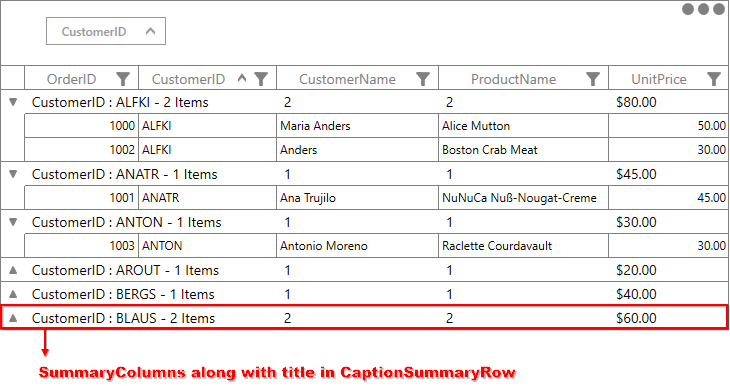
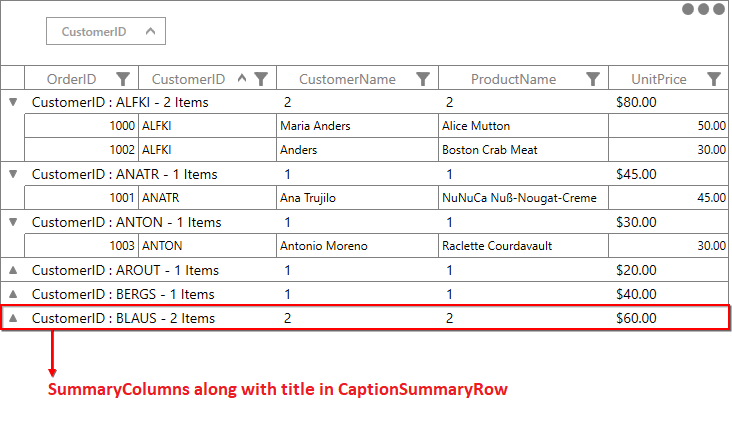
WPF-49853 Content and image changes for summary with title

Changed region(s): [[0.0, 0.0, 1.0, 0.9948], [0.0603, 0.0311, 0.2411, 0.1244]]

diff --git a/wpf/DataGrid/Summaries.md b/wpf/DataGrid/Summaries.md
@@ -98,7 +98,7 @@ this.dataGrid.TableSummaryRows.Add(new GridTableSummaryRow()
 
 SfDataGrid supports to show column summary and title summary at the same time. You can show column summary along with title by defining the [GridSummaryRow.Title](http://help.syncfusion.com/cr/cref_files/wpf/Syncfusion.SfGrid.WPF~Syncfusion.UI.Xaml.Grid.GridSummaryRow~Title.html)  and `GridSummaryRow.TitleColumnCount` property along with defining summary columns. Showing column summary along with title can be only supported if [GridSummaryRow.ShowSummaryInRow](http://help.syncfusion.com/cr/cref_files/wpf/Syncfusion.SfGrid.WPF~Syncfusion.UI.Xaml.Grid.GridSummaryRow~ShowSummaryInRow.html) is disabled.
 
-Refer [Defining summary for column](#defining-summary-for-column) section to know more about how to defining summary columns.
+Refer [Defining summary for column](#defining-summary-for-column) section to know more about how to define summary columns.
 
 In the below code snippet, `GridSummaryRow.TitleColumnCount` is set as 2 and [GridSummaryRow.Title](http://help.syncfusion.com/cr/cref_files/wpf/Syncfusion.SfGrid.WPF~Syncfusion.UI.Xaml.Grid.GridSummaryRow~Title.html) is defined along with summary columns.
 
@@ -167,16 +167,16 @@ this.dataGrid.TableSummaryRows.Add(new GridTableSummaryRow()
 {% endhighlight %}
 {% endtabs %}
 
-The following screenshot illustrates displaying summary columns with title at same time for TableSummaryRow.
+The following screenshot illustrates displaying summary columns with title at same time for `TableSummaryRow`.
 
 ![SummaryColumns with title in TableSummaryRow for WPF DataGrid](Summaries_images/Summaries_img21.png)
 
 #### Limitations
 
-The following are the limitations of displaying column summary along with title at same time for TableSummaryRow:
+The following are the limitations of displaying column summary along with title at same time for `TableSummaryRow`:
 
-*Shows column summary along with title for frozen column only for [FrozenColumnCount](https://help.syncfusion.com/cr/cref_files/wpf/Syncfusion.SfGrid.WPF~Syncfusion.UI.Xaml.Grid.SfGridBase~FrozenColumnCount.html) is lesser than `GridSummaryRow.TitleColumnCount` when frozen column defined case. 
-*Does not shows column summary with title at same column.
+*If [FrozenColumnCount](https://help.syncfusion.com/cr/cref_files/wpf/Syncfusion.SfGrid.WPF~Syncfusion.UI.Xaml.Grid.SfGridBase~FrozenColumnCount.html) is defined lesser than `GridSummaryRow.TitleColumnCount`, the title summary will be spanned to [FrozenColumnCount](https://help.syncfusion.com/cr/cref_files/wpf/Syncfusion.SfGrid.WPF~Syncfusion.UI.Xaml.Grid.SfGridBase~FrozenColumnCount.html) range, since spanned range and frozen range cannot be vary.
+*Summary columns defined in the `GridSummaryRow.TitleColumnCount` range will not be shown.
 
 ### Displaying summary for Row
 
@@ -399,7 +399,7 @@ this.dataGrid.GroupSummaryRows.Add(new GridSummaryRow()
 
 SfDataGrid supports to show column summary and title summary at the same time. You can show column summary along with title by defining the [GridSummaryRow.Title](http://help.syncfusion.com/cr/cref_files/wpf/Syncfusion.SfGrid.WPF~Syncfusion.UI.Xaml.Grid.GridSummaryRow~Title.html)  and `GridSummaryRow.TitleColumnCount` property along with defining summary columns. Showing column summary along with title can be only supported if [GridSummaryRow.ShowSummaryInRow](http://help.syncfusion.com/cr/cref_files/wpf/Syncfusion.SfGrid.WPF~Syncfusion.UI.Xaml.Grid.GridSummaryRow~ShowSummaryInRow.html) is disabled.
 
-Refer [Defining summary for column](#defining-summary-for-column-1) section to know more about how to defining summary columns.
+Refer [Defining summary for column](#defining-summary-for-column-1) section to know more about how to define summary columns.
 
 In the below code snippet, `GridSummaryRow.TitleColumnCount` is set as 2 and [GridSummaryRow.Title](http://help.syncfusion.com/cr/cref_files/wpf/Syncfusion.SfGrid.WPF~Syncfusion.UI.Xaml.Grid.GridSummaryRow~Title.html) is defined along with summary columns.
 
@@ -467,16 +467,16 @@ this.dataGrid.GroupSummaryRows.Add(new GridSummaryRow()
 {% endhighlight %}
 {% endtabs %}
 
-The following screenshot illustrates displaying summary columns with title at same time for GroupSummaryRow.
+The following screenshot illustrates displaying summary columns with title at same time for `GroupSummaryRow`.
 
 ![SummaryColumns with title in group summary row for WPF DataGrid](Summaries_images/Summaries_img20.png)
 
 #### Limitations
 
-The following are the limitations of displaying column summary along with title at same time for GroupSummaryRow:
+The following are the limitations of displaying column summary along with title at same time for `GroupSummaryRow`:
 
-*Shows column summary along with title for frozen column only for [FrozenColumnCount](https://help.syncfusion.com/cr/cref_files/wpf/Syncfusion.SfGrid.WPF~Syncfusion.UI.Xaml.Grid.SfGridBase~FrozenColumnCount.html) is lesser than `GridSummaryRow.TitleColumnCount` when frozen column defined case. 
-*Does not shows column summary with title at same column.
+*If [FrozenColumnCount](https://help.syncfusion.com/cr/cref_files/wpf/Syncfusion.SfGrid.WPF~Syncfusion.UI.Xaml.Grid.SfGridBase~FrozenColumnCount.html) is defined lesser than `GridSummaryRow.TitleColumnCount`, the title summary will be spanned to [FrozenColumnCount](https://help.syncfusion.com/cr/cref_files/wpf/Syncfusion.SfGrid.WPF~Syncfusion.UI.Xaml.Grid.SfGridBase~FrozenColumnCount.html) range, since spanned range and frozen range cannot be vary.
+*Summary columns defined in the `GridSummaryRow.TitleColumnCount` range will not be shown.
 
 ### Displaying summary for Row
 
@@ -650,7 +650,7 @@ this.dataGrid.CaptionSummaryRow = new GridSummaryRow()
 
 SfDataGrid supports to show column summary and title summary at the same time. You can show column summary along with title by defining the [GridSummaryRow.Title](http://help.syncfusion.com/cr/cref_files/wpf/Syncfusion.SfGrid.WPF~Syncfusion.UI.Xaml.Grid.GridSummaryRow~Title.html)  and `GridSummaryRow.TitleColumnCount` property along with defining summary columns. Showing column summary along with title can be only supported if [GridSummaryRow.ShowSummaryInRow](http://help.syncfusion.com/cr/cref_files/wpf/Syncfusion.SfGrid.WPF~Syncfusion.UI.Xaml.Grid.GridSummaryRow~ShowSummaryInRow.html) is disabled.
 
-Refer [Defining summary for column](#defining-summary-for-column-2) section to know more about how to defining summary columns.
+Refer [Defining summary for column](#defining-summary-for-column-2) section to know more about how to define summary columns.
 
 In the below code snippet, `GridSummaryRow.TitleColumnCount` is set as 2 and [GridSummaryRow.Title](http://help.syncfusion.com/cr/cref_files/wpf/Syncfusion.SfGrid.WPF~Syncfusion.UI.Xaml.Grid.GridSummaryRow~Title.html) is defined along with summary columns.
 
@@ -718,16 +718,16 @@ this.dataGrid.CaptionSummaryRow = new GridSummaryRow()
 {% endhighlight %}
 {% endtabs %}
 
-The following screenshot illustrates displaying summary columns with title at same time for CaptionSummaryRow.
+The following screenshot illustrates displaying summary columns with title at same time for `CaptionSummaryRow`.
 
 ![Caption summary columns with title in WPF DataGrid](Summaries_images/Summaries_img19.png)
 
 #### Limitations
 
-The following are the limitations of displaying column summary along with title at same time for CaptionSummaryRow:
+The following are the limitations of displaying column summary along with title at same time for `CaptionSummaryRow`:
 
-*Shows column summary along with title for frozen column only for [FrozenColumnCount](https://help.syncfusion.com/cr/cref_files/wpf/Syncfusion.SfGrid.WPF~Syncfusion.UI.Xaml.Grid.SfGridBase~FrozenColumnCount.html) is lesser than `GridSummaryRow.TitleColumnCount` when frozen column defined case. 
-*Does not shows column summary with title at same column. 
+*If [FrozenColumnCount](https://help.syncfusion.com/cr/cref_files/wpf/Syncfusion.SfGrid.WPF~Syncfusion.UI.Xaml.Grid.SfGridBase~FrozenColumnCount.html) is defined lesser than `GridSummaryRow.TitleColumnCount`, the title summary will be spanned to [FrozenColumnCount](https://help.syncfusion.com/cr/cref_files/wpf/Syncfusion.SfGrid.WPF~Syncfusion.UI.Xaml.Grid.SfGridBase~FrozenColumnCount.html) range, since spanned range and frozen range cannot be vary.
+*Summary columns defined in the `GridSummaryRow.TitleColumnCount` range will not be shown.
 
 ### Displaying summary for Row
 
